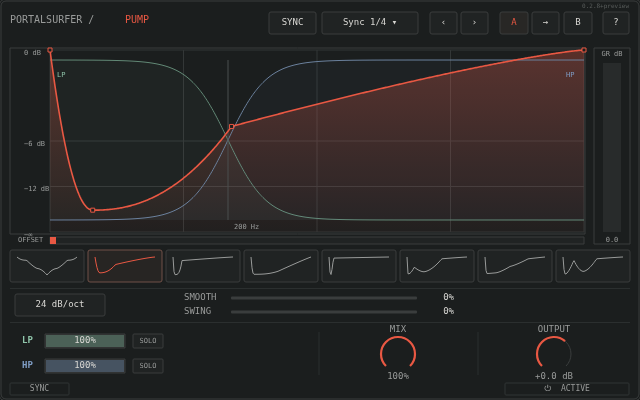
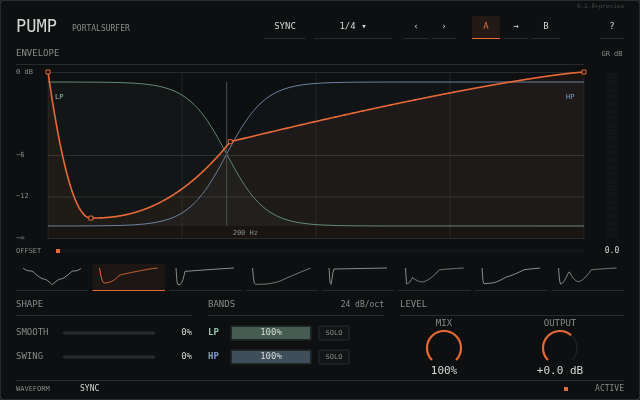
Apply technical instrument style to Pump composition preview

diff --git a/frame-standalone.html b/frame-standalone.html
@@ -87,14 +87,16 @@ button:focus-visible, select:focus-visible { outline: 2px solid #e95843; outline
 </script>
 <script>// Pump composition study; Frame's brush is the interaction surface.
 (() => {
-  const C={bg:'#1b1e1e',panel:'#202323',line:'#3a3d3d',muted:'#999b9a',text:'#d8d7d3',accent:'#e95843',low:'#8fc5aa',blue:'#809ec6'};
-  function rect(c,x,y,w,h,r=2,fill=C.panel,stroke=C.line){c.beginPath();c.roundRect(x,y,w,h,r);c.fillStyle=fill;c.fill();if(stroke){c.strokeStyle=stroke;c.lineWidth=1;c.stroke();}}
+  const C={bg:'#0d0f10',panel:'#121516',line:'#262c2b',muted:'#868c8a',text:'#d5d8d6',accent:'#e86938',low:'#8fc5aa',blue:'#809ec6'};
+  function rect(c,x,y,w,h,r=1,fill=C.panel,stroke=C.line){c.beginPath();c.roundRect(x,y,w,h,r);c.fillStyle=fill;c.fill();if(stroke){c.strokeStyle=stroke;c.lineWidth=1;c.stroke();}}
   function text(c,t,x,y,size=10,color=C.text,weight=400){c.fillStyle=color;c.font=`${weight} ${size}px ui-monospace, SFMono-Regular, monospace`;c.textBaseline='middle';c.fillText(t,x,y);}
   function alignedText(c,t,x,y,size=9,color=C.text,align='center',weight=400){c.save();c.textAlign=align;text(c,t,x,y,size,color,weight);c.restore();}
-  function button(c,t,x,y,w,active=false){rect(c,x,y,w,22,2,active?'#282725':C.panel);alignedText(c,t,x+w/2,y+11,9,active?C.accent:C.text);}
-  function knob(c,label,value,x,y,a=0){alignedText(c,label,x,y-24,9,C.muted);c.strokeStyle=C.line;c.lineWidth=1;c.beginPath();c.arc(x,y,17,.75*Math.PI,2.25*Math.PI);c.stroke();if(a>0){c.strokeStyle=C.accent;c.lineWidth=2.2;c.beginPath();c.arc(x,y,17,.75*Math.PI,(.75+1.5*a)*Math.PI);c.stroke();}alignedText(c,value,x,y+23,9,C.muted);}
+  function rail(c,x,y,w,color=C.line){c.strokeStyle=color;c.lineWidth=1;c.beginPath();c.moveTo(x,y+.5);c.lineTo(x+w,y+.5);c.stroke();}
+  function button(c,t,x,y,w,active=false){if(active)rect(c,x,y,w,22,0,'#241a15',null);rail(c,x,y+22,w,active?C.accent:C.line);alignedText(c,t,x+w/2,y+11,9,active?C.accent:C.text);}
+  function heading(c,label,x,y,w){text(c,label,x,y,9,C.muted);rail(c,x,y+10,w);}
+  function knob(c,label,value,x,y,a=0){alignedText(c,label,x,y-24,9,C.muted);c.strokeStyle=C.line;c.lineWidth=1;c.beginPath();c.arc(x,y,17,.75*Math.PI,2.25*Math.PI);c.stroke();if(a>0){c.strokeStyle=C.accent;c.lineWidth=2.2;c.beginPath();c.arc(x,y,17,.75*Math.PI,(.75+1.5*a)*Math.PI);c.stroke();}alignedText(c,value,x,y+23,11,C.text);}
   function slider(c,label,value,x,y,w=282,a=0){text(c,label,x,y,9,C.muted);const tx=x+47,tw=w-84;rect(c,tx,y-1.5,tw,3,1,C.line,null);if(a>0)rect(c,tx,y-1.5,tw*a,3,1,C.accent,null);alignedText(c,value,x+w,y,9,C.text,'right');}
-  function mixRow(c,label,x,y,value,color,tw=118){text(c,label,x,y,9,color,600);const bx=x+23,bw=tw+34;rect(c,bx,y-7,bw,14,0,'#282b2b',C.line);if(value>0){c.save();c.globalAlpha=90/255;rect(c,bx+1,y-6,(bw-2)*value,12,0,color,null);c.restore();}alignedText(c,Math.round(value*100)+'%',bx+bw/2,y,9,C.text);rect(c,x+tw+65,y-7,30,14,1,C.panel);alignedText(c,'SOLO',x+tw+80,y,7,C.muted);}
+  function mixRow(c,label,x,y,value,color,tw=118){text(c,label,x,y,9,color,600);const bx=x+23,bw=tw+34;rect(c,bx,y-7,bw,14,0,'#1c2221',C.line);if(value>0){c.save();c.globalAlpha=90/255;rect(c,bx+1,y-6,(bw-2)*value,12,0,color,null);c.restore();}alignedText(c,Math.round(value*100)+'%',bx+bw/2,y,9,C.text);rect(c,x+tw+65,y-7,30,14,1,C.panel);alignedText(c,'SOLO',x+tw+80,y,7,C.muted);}
   const shapes=[["Sine", [[0.0, 1.0], [0.16, 0.82], [0.34, 0.36], [0.5, 0.0], [0.66, 0.36], [0.84, 0.82], [1.0, 1.0]], [-0.55, -0.1, 0.25, -0.25, 0.1, 0.55]], ["Soft", [[0.0, 1.0], [0.08, 0.12], [0.34, 0.58], [1.0, 1.0]], [-0.35, 0.42, -0.08]], ["Tight", [[0.0, 1.0], [0.035, 0.02], [0.15, 0.8], [1.0, 1.0]], [-0.58, 0.72, -0.04]], ["Long", [[0.0, 1.0], [0.05, 0.04], [0.46, 0.22], [1.0, 1.0]], [-0.48, 0.58, -0.02]], ["Snap", [[0.0, 1.0], [0.012, 0.22], [0.03, 0.0], [0.075, 0.94], [1.0, 1.0]], [-0.08, 0.02, 0.12, 0.0]], ["Punch", [[0.0, 1.0], [0.02, 0.06], [0.12, 0.44], [0.28, 0.18], [0.58, 0.9], [1.0, 1.0]], [-0.52, 0.3, -0.24, 0.22, -0.04]], ["Thump", [[0.0, 1.0], [0.03, 0.08], [0.18, 0.12], [0.42, 0.48], [0.72, 0.9], [1.0, 1.0]], [-0.35, 0.05, 0.12, 0.08, -0.02]], ["Double", [[0.0, 1.0], [0.04, 0.05], [0.18, 0.82], [0.34, 0.2], [0.56, 0.9], [1.0, 1.0]], [-0.48, 0.18, -0.28, 0.2, -0.05]]];
   function sample(shape,x){const n=shape[1],ts=shape[2];let i=0;while(i<n.length-2&&x>n[i+1][0])i++;const l=n[i],r=n[i+1];let t=Math.max(0,Math.min(1,(x-l[0])/(r[0]-l[0])));const tension=ts[i]||0,power=1+Math.abs(tension)*3;t=tension>=0?Math.pow(t,power):1-Math.pow(1-t,power);return l[1]+(r[1]-l[1])*t;}
   function curve(c,shape,x,y,w,h){c.beginPath();for(let i=0;i<=w;i++){const yy=y+(1-sample(shape,i/w))*h;i?c.lineTo(x+i,yy):c.moveTo(x,yy);}c.stroke();}
@@ -108,23 +110,24 @@ button:focus-visible, select:focus-visible { outline: 2px solid #e95843; outline
     const marker=x+w/3;c.strokeStyle='#4a4f4e';c.beginPath();c.moveTo(marker,py);c.lineTo(marker,py+ph);c.stroke();text(c,'LP',x+7,y+25,7,C.low);text(c,'HP',x+w-18,y+25,7,C.blue);text(c,'200 Hz',marker+6,y+h-5,7,C.muted);
   }
   function shell(c){
-    c.fillStyle=C.bg;c.fillRect(0,0,640,400);rect(c,1,1,638,398,5,C.bg,C.line);
-    text(c,'PORTALSURFER /',10,20,10,C.muted);text(c,'PUMP',125,20,10,C.accent);c.save();c.textAlign='right';text(c,'0.2.8+preview',629,6,6,'#585c5b');c.restore();
-    button(c,'SYNC',269,12,47);button(c,'Sync 1/4 ▾',322,12,96);button(c,'‹',430,12,27);button(c,'›',461,12,27);button(c,'A',500,12,28,true);button(c,'→',532,12,27);button(c,'B',564,12,28);button(c,'?',603,12,26);
-    const x=50,y=50,w=534,h=182;rect(c,10,48,575,186,0,C.bg,C.line);
-    c.strokeStyle='#333737';c.lineWidth=1;for(let i=0;i<=4;i++){c.beginPath();c.moveTo(x+w*i/4,y);c.lineTo(x+w*i/4,y+h);c.stroke();}for(const level of [0,.5,.75,1]){c.beginPath();c.moveTo(x,y+h*level);c.lineTo(x+w,y+h*level);c.stroke();}
-    const gradient=c.createLinearGradient(0,y,0,y+h);gradient.addColorStop(0,'rgba(233,88,67,.30)');gradient.addColorStop(1,'rgba(233,88,67,.03)');c.beginPath();c.moveTo(x,y+h);for(let i=0;i<=w;i++)c.lineTo(x+i,y+(1-sample(shapes[1],i/w))*h);c.lineTo(x+w,y+h);c.closePath();c.fillStyle=gradient;c.fill();
+    c.fillStyle=C.bg;c.fillRect(0,0,640,400);rect(c,.5,.5,639,399,1,C.bg,C.line);
+    text(c,'PUMP',16,28,17,C.text);text(c,'PORTALSURFER',72,29,8,C.muted);alignedText(c,'0.2.8+preview',624,6,6,'#434a48','right');
+    button(c,'SYNC',264,16,42);button(c,'1/4 ▾',314,16,78);button(c,'‹',404,16,24);button(c,'›',432,16,24);button(c,'A',472,16,28,true);button(c,'→',504,16,24);button(c,'B',532,16,28);button(c,'?',600,16,24);
+    heading(c,'ENVELOPE',16,54,568);alignedText(c,'GR dB',612,54,7,C.muted);
+    const x=48,y=72,w=536,h=166;
+    c.strokeStyle='#1d2322';c.lineWidth=1;for(let i=0;i<=4;i++){c.beginPath();c.moveTo(x+w*i/4,y);c.lineTo(x+w*i/4,y+h);c.stroke();}for(const level of [0,.5,.75,1])rail(c,x,y+h*level,w);
+    c.beginPath();c.moveTo(x,y+h);for(let i=0;i<=w;i++)c.lineTo(x+i,y+(1-sample(shapes[1],i/w))*h);c.lineTo(x+w,y+h);c.closePath();c.fillStyle='rgba(232,105,56,.065)';c.fill();
     crossover(c,x,y,w,h);c.strokeStyle=C.accent;c.lineWidth=1.6;curve(c,shapes[1],x,y,w,h);for(const n of shapes[1][1])rect(c,x+n[0]*w-2,y+(1-n[1])*h-2,4,4,0,C.bg,C.accent);
-    for(const [label,level] of [['0 dB',0],['−6 dB',.5],['−12 dB',.75],['−∞',1]])text(c,label,24,y+level*h+3,7,C.muted);
-    text(c,'OFFSET',18,240,7,C.muted);rect(c,50,237,534,7,0,C.panel);c.fillStyle=C.accent;c.fillRect(50,237,6,7);
-    rect(c,594,48,36,196,0,C.bg,C.line);alignedText(c,'GR dB',612,54,7,C.muted);rect(c,603,63,18,169,0,'#282b2b',null);alignedText(c,'0.0',612,240,7,C.muted);
-    shapes.forEach((s,i)=>{const sx=10+i*78;rect(c,sx,250,74,32,2,i===1?'#272523':C.panel,i===1?'#715048':C.line);c.strokeStyle=i===1?C.accent:C.muted;c.lineWidth=1;curve(c,s,sx+7,257,60,18);});
-    c.strokeStyle='#2b2f2f';c.lineWidth=1;for(const yy of [288.5,322.5]){c.beginPath();c.moveTo(10,yy);c.lineTo(630,yy);c.stroke();}
-    button(c,'24 dB/oct',15,294,90);
-    slider(c,'SMOOTH','0%',184,298,270);slider(c,'SWING','0%',184,312,270);
-    for(const dx of [319,478]){c.strokeStyle='#2b2f2f';c.beginPath();c.moveTo(dx,332);c.lineTo(dx,375);c.stroke();}
-    mixRow(c,'LP',22,341,1,C.low,46);mixRow(c,'HP',22,366,1,C.blue,46);knob(c,'MIX','100%',398,354,1);knob(c,'OUTPUT','+0.0 dB',554,354,.65);
-    rect(c,10,383,59,12,1,C.bg,'#303434');alignedText(c,'SYNC',39.5,389,8,C.muted);rect(c,505,383,124,12,1,C.bg,'#303434');alignedText(c,'⏻  ACTIVE',567,389,8,C.muted);
+    for(const [label,level] of [['0 dB',0],['−6',.5],['−12',.75],['−∞',1]])text(c,label,16,y+level*h,7,C.muted);
+    text(c,'OFFSET',16,251,7,C.muted);rect(c,56,249,528,4,0,C.panel,null);rect(c,56,249,4,4,0,C.accent,null);
+    rect(c,606,72,12,166,0,C.panel,null);for(let i=0;i<24;i++)rail(c,606,72+i*7,12,C.bg);alignedText(c,'0.0',612,251,8,C.text);
+    shapes.forEach((s,i)=>{const sx=16+i*76.5;rail(c,sx,290,72.5,i===1?C.accent:C.line);if(i===1)rect(c,sx,264,72.5,26,0,'#1c1714',null);c.strokeStyle=i===1?C.accent:C.muted;c.lineWidth=1;curve(c,s,sx+7,268,58.5,17);});
+    heading(c,'SHAPE',16,305,176);heading(c,'BANDS',208,305,176);heading(c,'LEVEL',400,305,224);
+    slider(c,'SMOOTH','0%',16,333,176);slider(c,'SWING','0%',16,357,176);
+    alignedText(c,'24 dB/oct',384,305,8,C.muted,'right');
+    mixRow(c,'LP',208,333,1,C.low,46);mixRow(c,'HP',208,357,1,C.blue,46);
+    knob(c,'MIX','100%',444,348,1);knob(c,'OUTPUT','+0.0 dB',560,348,.65);
+    rail(c,16,380,608);text(c,'WAVEFORM',16,389,7,C.muted);text(c,'SYNC',80,389,8,C.text);rect(c,564,387,4,4,0,C.accent,null);alignedText(c,'ACTIVE',624,389,8,C.muted,'right');
   }
   Frame.register({id:'pump',name:'Pump · Dual band',width:640,height:400,paint(c){shell(c);}});
 })();

diff --git a/examples/pump.js b/examples/pump.js
@@ -1,13 +1,15 @@
 // Pump composition study; Frame's brush is the interaction surface.
 (() => {
-  const C={bg:'#1b1e1e',panel:'#202323',line:'#3a3d3d',muted:'#999b9a',text:'#d8d7d3',accent:'#e95843',low:'#8fc5aa',blue:'#809ec6'};
-  function rect(c,x,y,w,h,r=2,fill=C.panel,stroke=C.line){c.beginPath();c.roundRect(x,y,w,h,r);c.fillStyle=fill;c.fill();if(stroke){c.strokeStyle=stroke;c.lineWidth=1;c.stroke();}}
+  const C={bg:'#0d0f10',panel:'#121516',line:'#262c2b',muted:'#868c8a',text:'#d5d8d6',accent:'#e86938',low:'#8fc5aa',blue:'#809ec6'};
+  function rect(c,x,y,w,h,r=1,fill=C.panel,stroke=C.line){c.beginPath();c.roundRect(x,y,w,h,r);c.fillStyle=fill;c.fill();if(stroke){c.strokeStyle=stroke;c.lineWidth=1;c.stroke();}}
   function text(c,t,x,y,size=10,color=C.text,weight=400){c.fillStyle=color;c.font=`${weight} ${size}px ui-monospace, SFMono-Regular, monospace`;c.textBaseline='middle';c.fillText(t,x,y);}
   function alignedText(c,t,x,y,size=9,color=C.text,align='center',weight=400){c.save();c.textAlign=align;text(c,t,x,y,size,color,weight);c.restore();}
-  function button(c,t,x,y,w,active=false){rect(c,x,y,w,22,2,active?'#282725':C.panel);alignedText(c,t,x+w/2,y+11,9,active?C.accent:C.text);}
-  function knob(c,label,value,x,y,a=0){alignedText(c,label,x,y-24,9,C.muted);c.strokeStyle=C.line;c.lineWidth=1;c.beginPath();c.arc(x,y,17,.75*Math.PI,2.25*Math.PI);c.stroke();if(a>0){c.strokeStyle=C.accent;c.lineWidth=2.2;c.beginPath();c.arc(x,y,17,.75*Math.PI,(.75+1.5*a)*Math.PI);c.stroke();}alignedText(c,value,x,y+23,9,C.muted);}
+  function rail(c,x,y,w,color=C.line){c.strokeStyle=color;c.lineWidth=1;c.beginPath();c.moveTo(x,y+.5);c.lineTo(x+w,y+.5);c.stroke();}
+  function button(c,t,x,y,w,active=false){if(active)rect(c,x,y,w,22,0,'#241a15',null);rail(c,x,y+22,w,active?C.accent:C.line);alignedText(c,t,x+w/2,y+11,9,active?C.accent:C.text);}
+  function heading(c,label,x,y,w){text(c,label,x,y,9,C.muted);rail(c,x,y+10,w);}
+  function knob(c,label,value,x,y,a=0){alignedText(c,label,x,y-24,9,C.muted);c.strokeStyle=C.line;c.lineWidth=1;c.beginPath();c.arc(x,y,17,.75*Math.PI,2.25*Math.PI);c.stroke();if(a>0){c.strokeStyle=C.accent;c.lineWidth=2.2;c.beginPath();c.arc(x,y,17,.75*Math.PI,(.75+1.5*a)*Math.PI);c.stroke();}alignedText(c,value,x,y+23,11,C.text);}
   function slider(c,label,value,x,y,w=282,a=0){text(c,label,x,y,9,C.muted);const tx=x+47,tw=w-84;rect(c,tx,y-1.5,tw,3,1,C.line,null);if(a>0)rect(c,tx,y-1.5,tw*a,3,1,C.accent,null);alignedText(c,value,x+w,y,9,C.text,'right');}
-  function mixRow(c,label,x,y,value,color,tw=118){text(c,label,x,y,9,color,600);const bx=x+23,bw=tw+34;rect(c,bx,y-7,bw,14,0,'#282b2b',C.line);if(value>0){c.save();c.globalAlpha=90/255;rect(c,bx+1,y-6,(bw-2)*value,12,0,color,null);c.restore();}alignedText(c,Math.round(value*100)+'%',bx+bw/2,y,9,C.text);rect(c,x+tw+65,y-7,30,14,1,C.panel);alignedText(c,'SOLO',x+tw+80,y,7,C.muted);}
+  function mixRow(c,label,x,y,value,color,tw=118){text(c,label,x,y,9,color,600);const bx=x+23,bw=tw+34;rect(c,bx,y-7,bw,14,0,'#1c2221',C.line);if(value>0){c.save();c.globalAlpha=90/255;rect(c,bx+1,y-6,(bw-2)*value,12,0,color,null);c.restore();}alignedText(c,Math.round(value*100)+'%',bx+bw/2,y,9,C.text);rect(c,x+tw+65,y-7,30,14,1,C.panel);alignedText(c,'SOLO',x+tw+80,y,7,C.muted);}
   const shapes=[["Sine", [[0.0, 1.0], [0.16, 0.82], [0.34, 0.36], [0.5, 0.0], [0.66, 0.36], [0.84, 0.82], [1.0, 1.0]], [-0.55, -0.1, 0.25, -0.25, 0.1, 0.55]], ["Soft", [[0.0, 1.0], [0.08, 0.12], [0.34, 0.58], [1.0, 1.0]], [-0.35, 0.42, -0.08]], ["Tight", [[0.0, 1.0], [0.035, 0.02], [0.15, 0.8], [1.0, 1.0]], [-0.58, 0.72, -0.04]], ["Long", [[0.0, 1.0], [0.05, 0.04], [0.46, 0.22], [1.0, 1.0]], [-0.48, 0.58, -0.02]], ["Snap", [[0.0, 1.0], [0.012, 0.22], [0.03, 0.0], [0.075, 0.94], [1.0, 1.0]], [-0.08, 0.02, 0.12, 0.0]], ["Punch", [[0.0, 1.0], [0.02, 0.06], [0.12, 0.44], [0.28, 0.18], [0.58, 0.9], [1.0, 1.0]], [-0.52, 0.3, -0.24, 0.22, -0.04]], ["Thump", [[0.0, 1.0], [0.03, 0.08], [0.18, 0.12], [0.42, 0.48], [0.72, 0.9], [1.0, 1.0]], [-0.35, 0.05, 0.12, 0.08, -0.02]], ["Double", [[0.0, 1.0], [0.04, 0.05], [0.18, 0.82], [0.34, 0.2], [0.56, 0.9], [1.0, 1.0]], [-0.48, 0.18, -0.28, 0.2, -0.05]]];
   function sample(shape,x){const n=shape[1],ts=shape[2];let i=0;while(i<n.length-2&&x>n[i+1][0])i++;const l=n[i],r=n[i+1];let t=Math.max(0,Math.min(1,(x-l[0])/(r[0]-l[0])));const tension=ts[i]||0,power=1+Math.abs(tension)*3;t=tension>=0?Math.pow(t,power):1-Math.pow(1-t,power);return l[1]+(r[1]-l[1])*t;}
   function curve(c,shape,x,y,w,h){c.beginPath();for(let i=0;i<=w;i++){const yy=y+(1-sample(shape,i/w))*h;i?c.lineTo(x+i,yy):c.moveTo(x,yy);}c.stroke();}
@@ -21,23 +23,24 @@
     const marker=x+w/3;c.strokeStyle='#4a4f4e';c.beginPath();c.moveTo(marker,py);c.lineTo(marker,py+ph);c.stroke();text(c,'LP',x+7,y+25,7,C.low);text(c,'HP',x+w-18,y+25,7,C.blue);text(c,'200 Hz',marker+6,y+h-5,7,C.muted);
   }
   function shell(c){
-    c.fillStyle=C.bg;c.fillRect(0,0,640,400);rect(c,1,1,638,398,5,C.bg,C.line);
-    text(c,'PORTALSURFER /',10,20,10,C.muted);text(c,'PUMP',125,20,10,C.accent);c.save();c.textAlign='right';text(c,'0.2.8+preview',629,6,6,'#585c5b');c.restore();
-    button(c,'SYNC',269,12,47);button(c,'Sync 1/4 ▾',322,12,96);button(c,'‹',430,12,27);button(c,'›',461,12,27);button(c,'A',500,12,28,true);button(c,'→',532,12,27);button(c,'B',564,12,28);button(c,'?',603,12,26);
-    const x=50,y=50,w=534,h=182;rect(c,10,48,575,186,0,C.bg,C.line);
-    c.strokeStyle='#333737';c.lineWidth=1;for(let i=0;i<=4;i++){c.beginPath();c.moveTo(x+w*i/4,y);c.lineTo(x+w*i/4,y+h);c.stroke();}for(const level of [0,.5,.75,1]){c.beginPath();c.moveTo(x,y+h*level);c.lineTo(x+w,y+h*level);c.stroke();}
-    const gradient=c.createLinearGradient(0,y,0,y+h);gradient.addColorStop(0,'rgba(233,88,67,.30)');gradient.addColorStop(1,'rgba(233,88,67,.03)');c.beginPath();c.moveTo(x,y+h);for(let i=0;i<=w;i++)c.lineTo(x+i,y+(1-sample(shapes[1],i/w))*h);c.lineTo(x+w,y+h);c.closePath();c.fillStyle=gradient;c.fill();
+    c.fillStyle=C.bg;c.fillRect(0,0,640,400);rect(c,.5,.5,639,399,1,C.bg,C.line);
+    text(c,'PUMP',16,28,17,C.text);text(c,'PORTALSURFER',72,29,8,C.muted);alignedText(c,'0.2.8+preview',624,6,6,'#434a48','right');
+    button(c,'SYNC',264,16,42);button(c,'1/4 ▾',314,16,78);button(c,'‹',404,16,24);button(c,'›',432,16,24);button(c,'A',472,16,28,true);button(c,'→',504,16,24);button(c,'B',532,16,28);button(c,'?',600,16,24);
+    heading(c,'ENVELOPE',16,54,568);alignedText(c,'GR dB',612,54,7,C.muted);
+    const x=48,y=72,w=536,h=166;
+    c.strokeStyle='#1d2322';c.lineWidth=1;for(let i=0;i<=4;i++){c.beginPath();c.moveTo(x+w*i/4,y);c.lineTo(x+w*i/4,y+h);c.stroke();}for(const level of [0,.5,.75,1])rail(c,x,y+h*level,w);
+    c.beginPath();c.moveTo(x,y+h);for(let i=0;i<=w;i++)c.lineTo(x+i,y+(1-sample(shapes[1],i/w))*h);c.lineTo(x+w,y+h);c.closePath();c.fillStyle='rgba(232,105,56,.065)';c.fill();
     crossover(c,x,y,w,h);c.strokeStyle=C.accent;c.lineWidth=1.6;curve(c,shapes[1],x,y,w,h);for(const n of shapes[1][1])rect(c,x+n[0]*w-2,y+(1-n[1])*h-2,4,4,0,C.bg,C.accent);
-    for(const [label,level] of [['0 dB',0],['−6 dB',.5],['−12 dB',.75],['−∞',1]])text(c,label,24,y+level*h+3,7,C.muted);
-    text(c,'OFFSET',18,240,7,C.muted);rect(c,50,237,534,7,0,C.panel);c.fillStyle=C.accent;c.fillRect(50,237,6,7);
-    rect(c,594,48,36,196,0,C.bg,C.line);alignedText(c,'GR dB',612,54,7,C.muted);rect(c,603,63,18,169,0,'#282b2b',null);alignedText(c,'0.0',612,240,7,C.muted);
-    shapes.forEach((s,i)=>{const sx=10+i*78;rect(c,sx,250,74,32,2,i===1?'#272523':C.panel,i===1?'#715048':C.line);c.strokeStyle=i===1?C.accent:C.muted;c.lineWidth=1;curve(c,s,sx+7,257,60,18);});
-    c.strokeStyle='#2b2f2f';c.lineWidth=1;for(const yy of [288.5,322.5]){c.beginPath();c.moveTo(10,yy);c.lineTo(630,yy);c.stroke();}
-    button(c,'24 dB/oct',15,294,90);
-    slider(c,'SMOOTH','0%',184,298,270);slider(c,'SWING','0%',184,312,270);
-    for(const dx of [319,478]){c.strokeStyle='#2b2f2f';c.beginPath();c.moveTo(dx,332);c.lineTo(dx,375);c.stroke();}
-    mixRow(c,'LP',22,341,1,C.low,46);mixRow(c,'HP',22,366,1,C.blue,46);knob(c,'MIX','100%',398,354,1);knob(c,'OUTPUT','+0.0 dB',554,354,.65);
-    rect(c,10,383,59,12,1,C.bg,'#303434');alignedText(c,'SYNC',39.5,389,8,C.muted);rect(c,505,383,124,12,1,C.bg,'#303434');alignedText(c,'⏻  ACTIVE',567,389,8,C.muted);
+    for(const [label,level] of [['0 dB',0],['−6',.5],['−12',.75],['−∞',1]])text(c,label,16,y+level*h,7,C.muted);
+    text(c,'OFFSET',16,251,7,C.muted);rect(c,56,249,528,4,0,C.panel,null);rect(c,56,249,4,4,0,C.accent,null);
+    rect(c,606,72,12,166,0,C.panel,null);for(let i=0;i<24;i++)rail(c,606,72+i*7,12,C.bg);alignedText(c,'0.0',612,251,8,C.text);
+    shapes.forEach((s,i)=>{const sx=16+i*76.5;rail(c,sx,290,72.5,i===1?C.accent:C.line);if(i===1)rect(c,sx,264,72.5,26,0,'#1c1714',null);c.strokeStyle=i===1?C.accent:C.muted;c.lineWidth=1;curve(c,s,sx+7,268,58.5,17);});
+    heading(c,'SHAPE',16,305,176);heading(c,'BANDS',208,305,176);heading(c,'LEVEL',400,305,224);
+    slider(c,'SMOOTH','0%',16,333,176);slider(c,'SWING','0%',16,357,176);
+    alignedText(c,'24 dB/oct',384,305,8,C.muted,'right');
+    mixRow(c,'LP',208,333,1,C.low,46);mixRow(c,'HP',208,357,1,C.blue,46);
+    knob(c,'MIX','100%',444,348,1);knob(c,'OUTPUT','+0.0 dB',560,348,.65);
+    rail(c,16,380,608);text(c,'WAVEFORM',16,389,7,C.muted);text(c,'SYNC',80,389,8,C.text);rect(c,564,387,4,4,0,C.accent,null);alignedText(c,'ACTIVE',624,389,8,C.muted,'right');
   }
   Frame.register({id:'pump',name:'Pump · Dual band',width:640,height:400,paint(c){shell(c);}});
 })();
